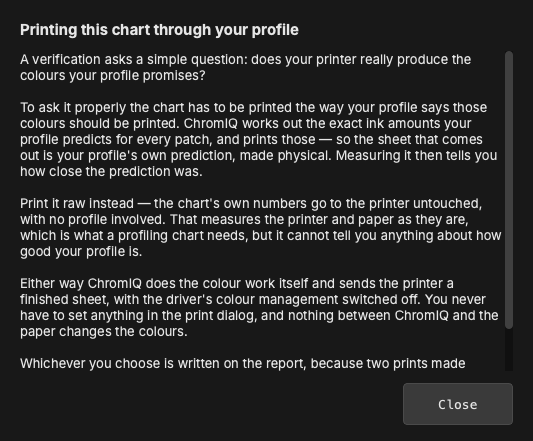
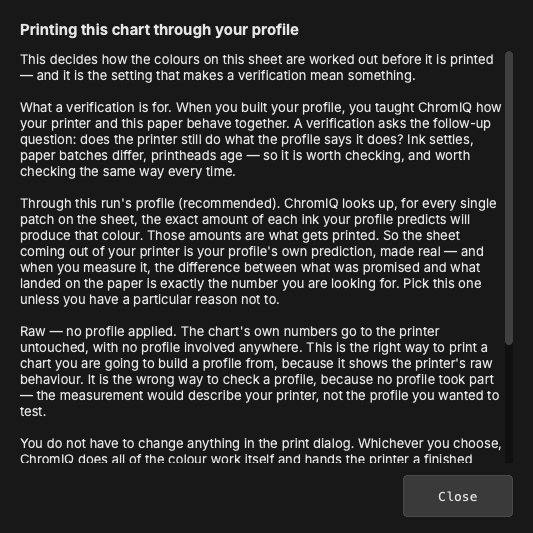
#130: amber accent on the mockups' controls, and help text worth reading
Sebastian: the radio selector should carry the amber accent too, and all
user-facing text has to be friendly, extensive and easy to understand.

The accent is not hand-rolled QSS. tools_dialogs.neutral_controls_qss() already
tints checkboxes, radios and input focus rings to a given colour, and every tool
dialog in the app uses it -- so the mockups now go through the same helper. That
also means the mockup cannot drift from how the app really draws these controls.

The help text is rewritten rather than tightened. The previous version explained
the mechanism; this one explains what the setting is for and what happens if you
choose the other thing:

  - what a verification is actually asking, in one short paragraph, before any
    option is named -- ink settles, paper batches differ, printheads age;
  - "through this run's profile" described as the profile's own prediction made
    real, and why that is the number you want;
  - "raw" described as right for a profiling chart and wrong for a check, with
    the reason -- no profile took part, so the measurement describes the printer;
  - the reassurance that nothing has to be set in the print dialog, and the
    reason the driver's colour adjustment stays off (double conversion, which
    nothing afterwards can detect);
  - rendering intent given the same treatment, including why Perceptual and
    Saturation exist but are wrong for measurement.

Both on-panel notices grew a second paragraph: where the files go and that the
[…]

Changed region(s): [[0.03, 0.0295, 0.9606, 0.9728]]

diff --git a/scripts/mockup_cm_verification_print.py b/scripts/mockup_cm_verification_print.py
@@ -35,30 +35,44 @@ from PyQt6.QtWidgets import (                                      # noqa: E402
 )
 
 from ui import styles                                              # noqa: E402
+from ui.dialogs.tools_dialogs import neutral_controls_qss          # noqa: E402
 from ui.tooltip_button import InfoDialog, TooltipButton            # noqa: E402
 
 OUT = ROOT / "docs" / "mockups" / "cm130"
 
 INTENT_HELP_TITLE = "Printing this chart through your profile"
 INTENT_HELP_BODY = (
-    "A verification asks a simple question: does your printer really produce "
-    "the colours your profile promises?\n\n"
-    "To ask it properly the chart has to be printed the way your profile says "
-    "those colours should be printed. ChromIQ works out the exact ink amounts "
-    "your profile predicts for every patch, and prints those — so the sheet "
-    "that comes out is your profile's own prediction, made physical. Measuring "
-    "it then tells you how close the prediction was.\n\n"
-    "Print it raw instead — the chart's own numbers go to the printer "
-    "untouched, with no profile involved. That measures the printer and paper "
-    "as they are, which is what a profiling chart needs, but it cannot tell "
-    "you anything about how good your profile is.\n\n"
-    "Either way ChromIQ does the colour work itself and sends the printer a "
-    "finished sheet, with the driver's colour management switched off. You "
-    "never have to set anything in the print dialog, and nothing between "
-    "ChromIQ and the paper changes the colours.\n\n"
-    "Whichever you choose is written on the report, because two prints made "
-    "different ways are not comparable.\n\n"
-    "Default: print through this run's profile."
+    "This decides how the colours on this sheet are worked out before it is "
+    "printed — and it is the setting that makes a verification mean "
+    "something.\n\n"
+    "What a verification is for. When you built your profile, you taught "
+    "ChromIQ how your printer and this paper behave together. A verification "
+    "asks the follow-up question: does the printer still do what the profile "
+    "says it does? Ink settles, paper batches differ, printheads age — so it "
+    "is worth checking, and worth checking the same way every time.\n\n"
+    "Through this run's profile (recommended). ChromIQ looks up, for every "
+    "single patch on the sheet, the exact amount of each ink your profile "
+    "predicts will produce that colour. Those amounts are what gets printed. "
+    "So the sheet coming out of your printer is your profile's own prediction, "
+    "made real — and when you measure it, the difference between what was "
+    "promised and what landed on the paper is exactly the number you are "
+    "looking for. Pick this one unless you have a particular reason not to.\n\n"
+    "Raw — no profile applied. The chart's own numbers go to the printer "
+    "untouched, with no profile involved anywhere. This is the right way to "
+    "print a chart you are going to build a profile from, because it shows "
+    "the printer's raw behaviour. It is the wrong way to check a profile, "
+    "because no profile took part — the measurement would describe your "
+    "printer, not the profile you wanted to test.\n\n"
+    "You do not have to change anything in the print dialog. Whichever you "
+    "choose, ChromIQ does all of the colour work itself and hands the printer "
+    "a finished sheet, with the printer's own colour adjustment switched off. "
+    "That is deliberate: if the printer driver also tried to adjust the "
+    "colours, they would be converted twice, the sheet would be wrong, and "
+    "nothing afterwards could tell that it had happened.\n\n"
+    "Your choice is written onto the report next to the results, because two "
+    "sheets printed different ways cannot be compared with each other — and "
+    "six months from now, nobody remembers which way a sheet was printed.\n\n"
+    "Default: through this run\u2019s profile."
 )
 
 
@@ -91,8 +105,9 @@ def _shell(title_text, accent):
     return panel, outer
 
 
-def _finish(panel, name):
-    panel.setStyleSheet(panel.styleSheet() +
+def _finish(panel, name, accent=None):
+    extra = neutral_controls_qss(accent) if accent else ""
+    panel.setStyleSheet(panel.styleSheet() + extra +
                         f"\n#mockupPanel{{background:{styles.BG_DARK};}}")
     panel.adjustSize()
     OUT.mkdir(parents=True, exist_ok=True)
@@ -138,16 +153,32 @@ def print_row(no_profile: bool = False) -> QWidget:
     intent.setEnabled(not no_profile)
     gl.addWidget(_row(group, "Rendering intent", intent,
                       "Which rendering intent to print with",
-                      "Rendering intent decides what happens to colours your "
-                      "printer cannot reach.\n\nRelative colorimetric keeps "
-                      "every colour it can reach exactly right and pulls the "
-                      "rest to the nearest it can manage — the usual choice "
-                      "for checking a profile.\n\nAbsolute colorimetric does "
-                      "the same but also reproduces the paper white of the "
-                      "profile, so a warm paper shows up as an error. Use it "
-                      "when you are matching an external absolute "
-                      "reference.\n\nThe intent is written on the report, "
-                      "because a ΔE means nothing without it.\n\n"
+                      "Your printer cannot make every colour that exists — no "
+                      "printer can. Rendering intent is the rule for what "
+                      "happens to the colours it cannot reach.\n\n"
+                      "Relative colorimetric (recommended). Every colour your "
+                      "printer can actually make is reproduced exactly, and "
+                      "the few it cannot reach are moved to the closest colour "
+                      "it can manage. Paper white is treated as white. This is "
+                      "the usual choice for checking a profile, because it "
+                      "asks \u201cdid you hit the colours you could hit?\u201d "
+                      "without punishing the printer for the ones nobody could "
+                      "print.\n\n"
+                      "Absolute colorimetric. The same, except that the "
+                      "paper\u2019s own shade counts too. If your paper is "
+                      "slightly warm or slightly blue, that shows up as an "
+                      "error on every patch, so the numbers come out higher. "
+                      "Choose this when you have to match figures somebody "
+                      "else produced this way, or when the exact paper white "
+                      "matters to you.\n\n"
+                      "Perceptual and Saturation are meant for photographs and "
+                      "graphics rather than for measurement. They deliberately "
+                      "shift colours to look pleasing, which is the opposite "
+                      "of what a measurement wants, so they are here for "
+                      "completeness rather than for everyday use.\n\n"
+                      "Whichever you pick is written on the report, because a "
+                      "colour difference means nothing unless you know how it "
+                      "was produced.\n\n"
                       "Default: relative colorimetric.", A))
     outer.addWidget(group)
 
@@ -156,19 +187,26 @@ def print_row(no_profile: bool = False) -> QWidget:
     info.setWordWrap(True)
     if no_profile:
         info.setText(
-            "<b>This run has no finished profile yet</b>, so there is nothing "
-            "to print through. You can still print the sheet raw, but "
-            "measuring it will not tell you how accurate a profile is.<br>"
-            "To get there: set <b>Run type</b> to <b>Profiling</b>, measure "
-            "the profiling chart, and build the profile on the Build Profile "
-            "tab.")
+            "<b>There is no finished profile in this run yet</b>, so there is "
+            "nothing for ChromIQ to print through. You can still print this "
+            "sheet raw and measure it — but the result would describe your "
+            "printer, not a profile, so it cannot tell you how accurate a "
+            "profile is.<br><br>"
+            "To get there: set <b>Run type</b> to <b>Profiling</b>, then "
+            "create, print and measure the profiling chart as usual, and "
+            "build the profile on the <b>Build Profile</b> tab. Come back "
+            "here afterwards and this option will be waiting for you.")
     else:
         info.setText(
-            "ChromIQ works out the ink amounts your profile predicts and "
-            "prints those. The printer's own colour management stays switched "
-            "off, so nothing between here and the paper changes the "
-            "colours.<br>The finished sheets are kept in this verification's "
-            "<b>cache</b> folder.")
+            "ChromIQ will work out the ink amounts your profile predicts for "
+            "every patch and print exactly those, so the sheet is your "
+            "profile\u2019s own prediction made real. The printer\u2019s own "
+            "colour adjustment stays switched off, so nothing between here "
+            "and the paper changes the colours.<br><br>"
+            "You do not need to change any colour setting in the print "
+            "dialog. The finished sheets are kept in this "
+            "verification\u2019s <b>cache</b> folder, which is always safe "
+            "to delete.")
     outer.addWidget(info)
 
     btn = QPushButton("Print", panel)
@@ -244,10 +282,10 @@ def main() -> int:
     app.setPalette(styles.make_dark_palette())
     app.setStyleSheet(styles.APP_STYLESHEET)
 
-    _finish(print_row(False), "cm_1_print.png")
+    _finish(print_row(False), "cm_1_print.png", styles.SPEC_AMBER)
     info_window(app)
-    _finish(report_line(), "cm_3_report.png")
-    _finish(print_row(True), "cm_4_no_profile.png")
+    _finish(report_line(), "cm_3_report.png", styles.SPEC_GREEN)
+    _finish(print_row(True), "cm_4_no_profile.png", styles.SPEC_AMBER)
     print(f"\nall four written to {OUT.relative_to(ROOT)}")
     return 0
 
